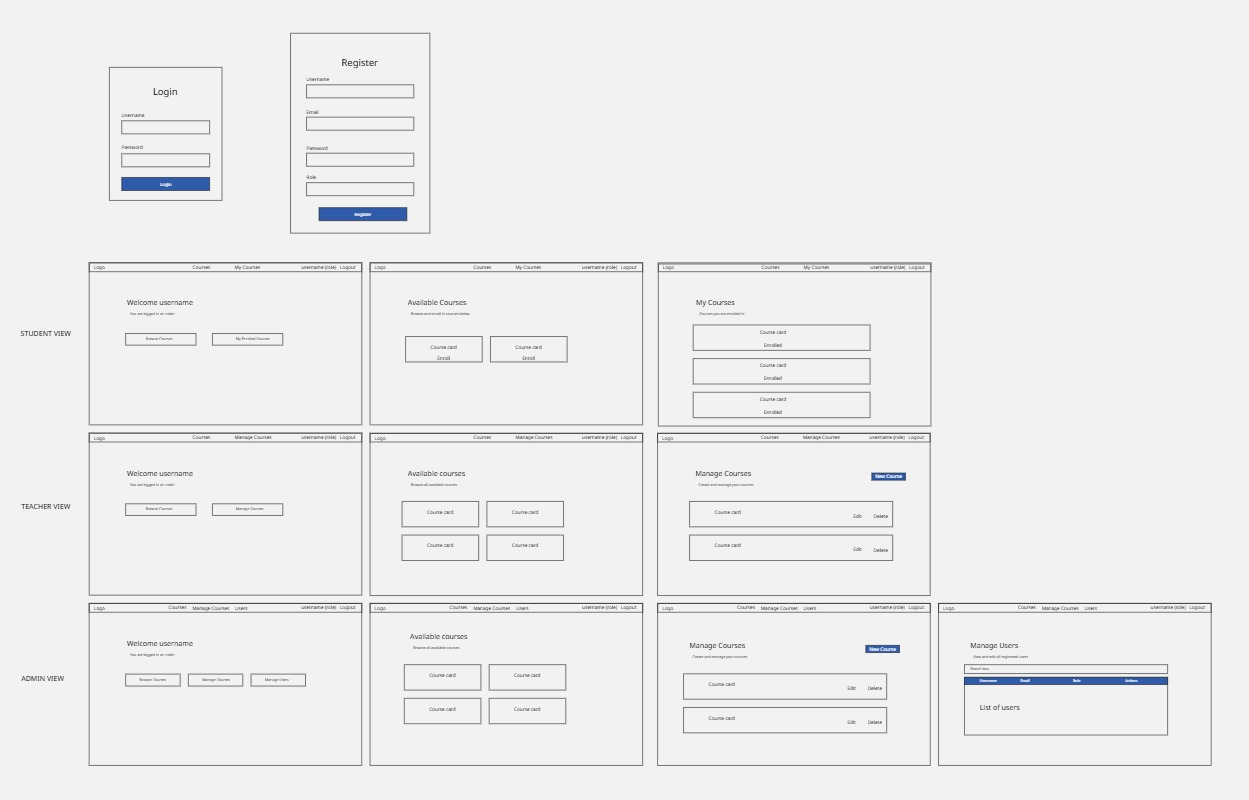
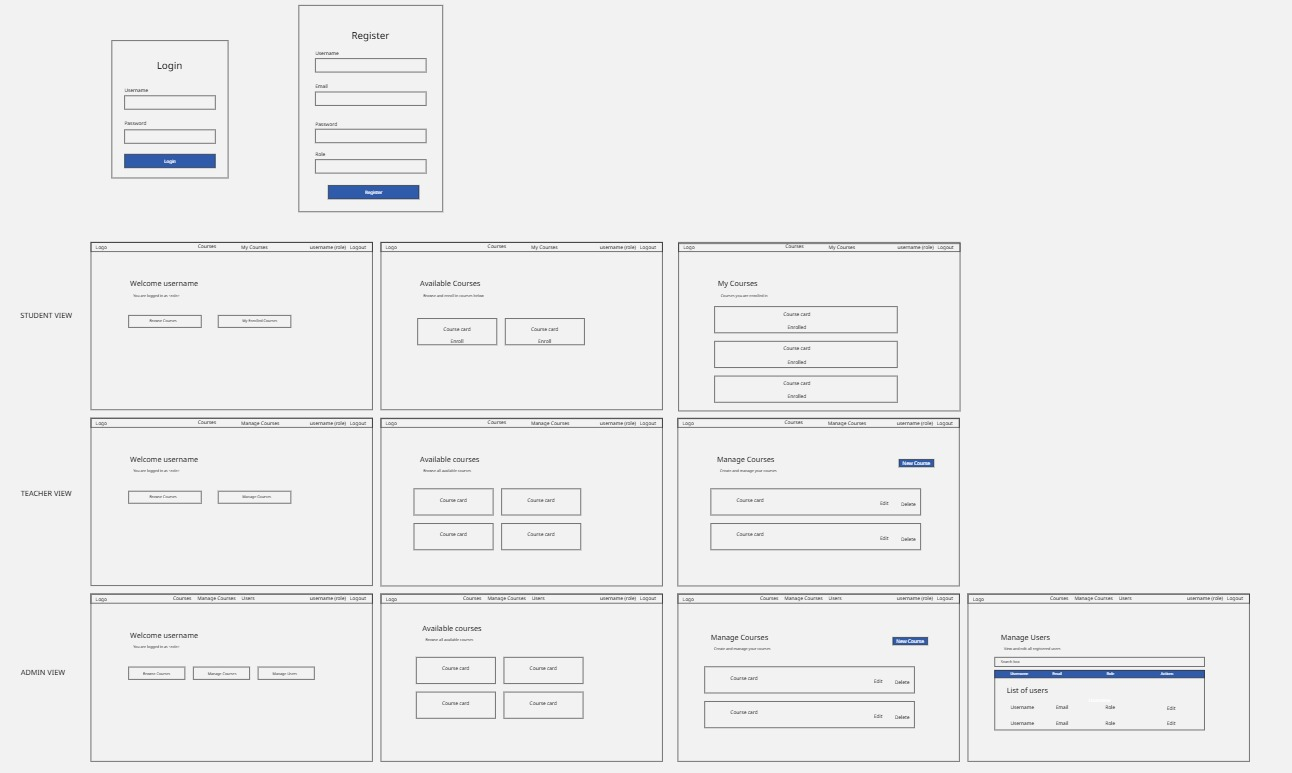
docs: add Miro low fidelity wireframes for all user views and modify README file

diff --git a/README.md b/README.md
@@ -223,6 +223,12 @@ Expected output: 48 tests passing
 
 ## Wireframes
 
+```
+Low fidelity wireframes were created using Miro covering all user views.
+See [wireframes/LMS_wireframes.jpg](./wireframes/LMS_wireframes.jpg)
+
+```
+
 ### Login Page
 
 ```
